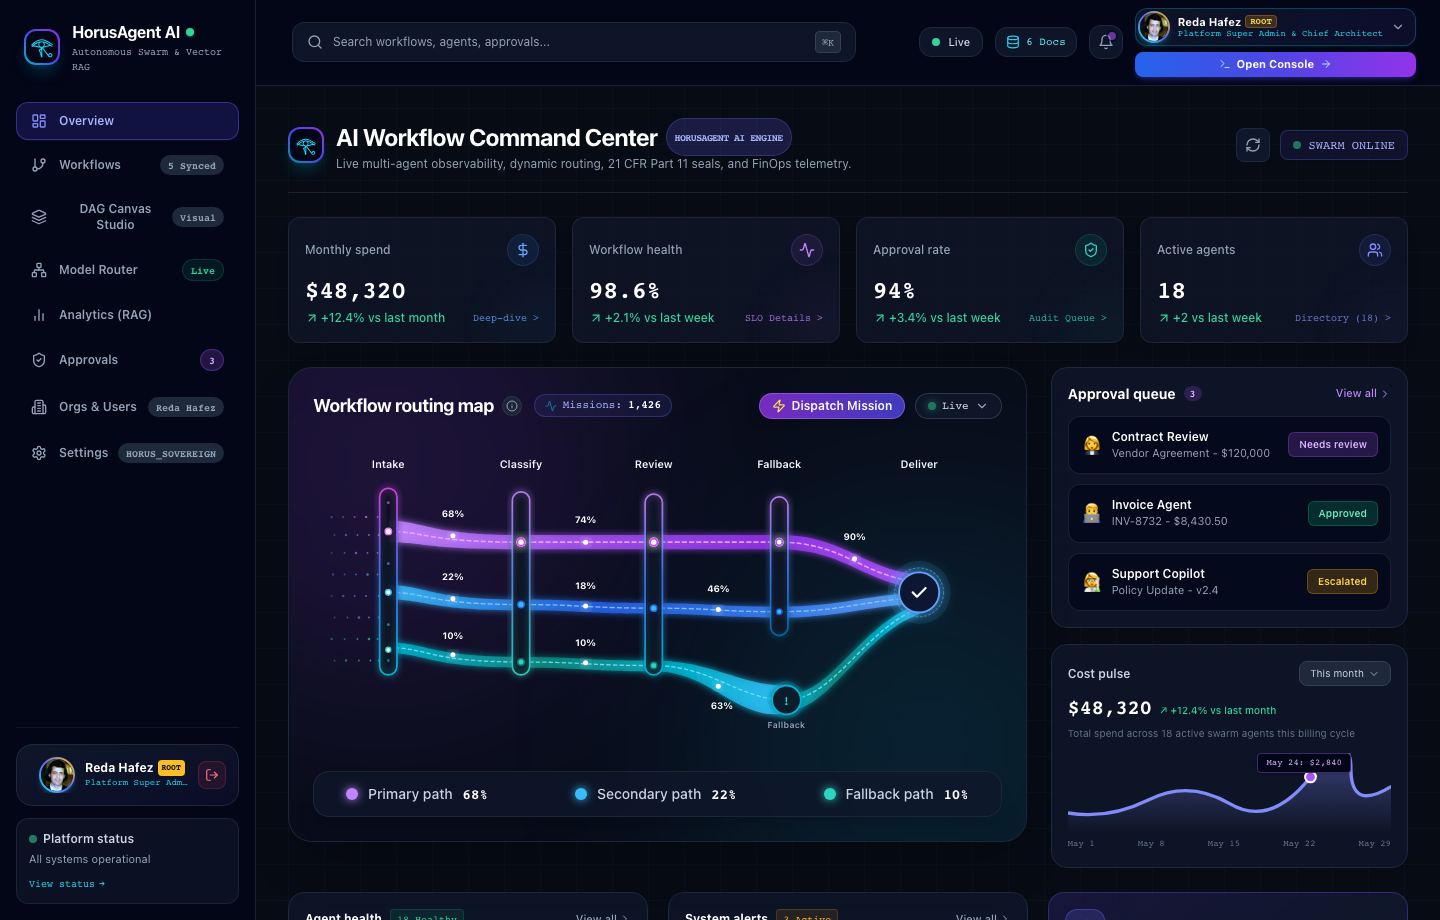
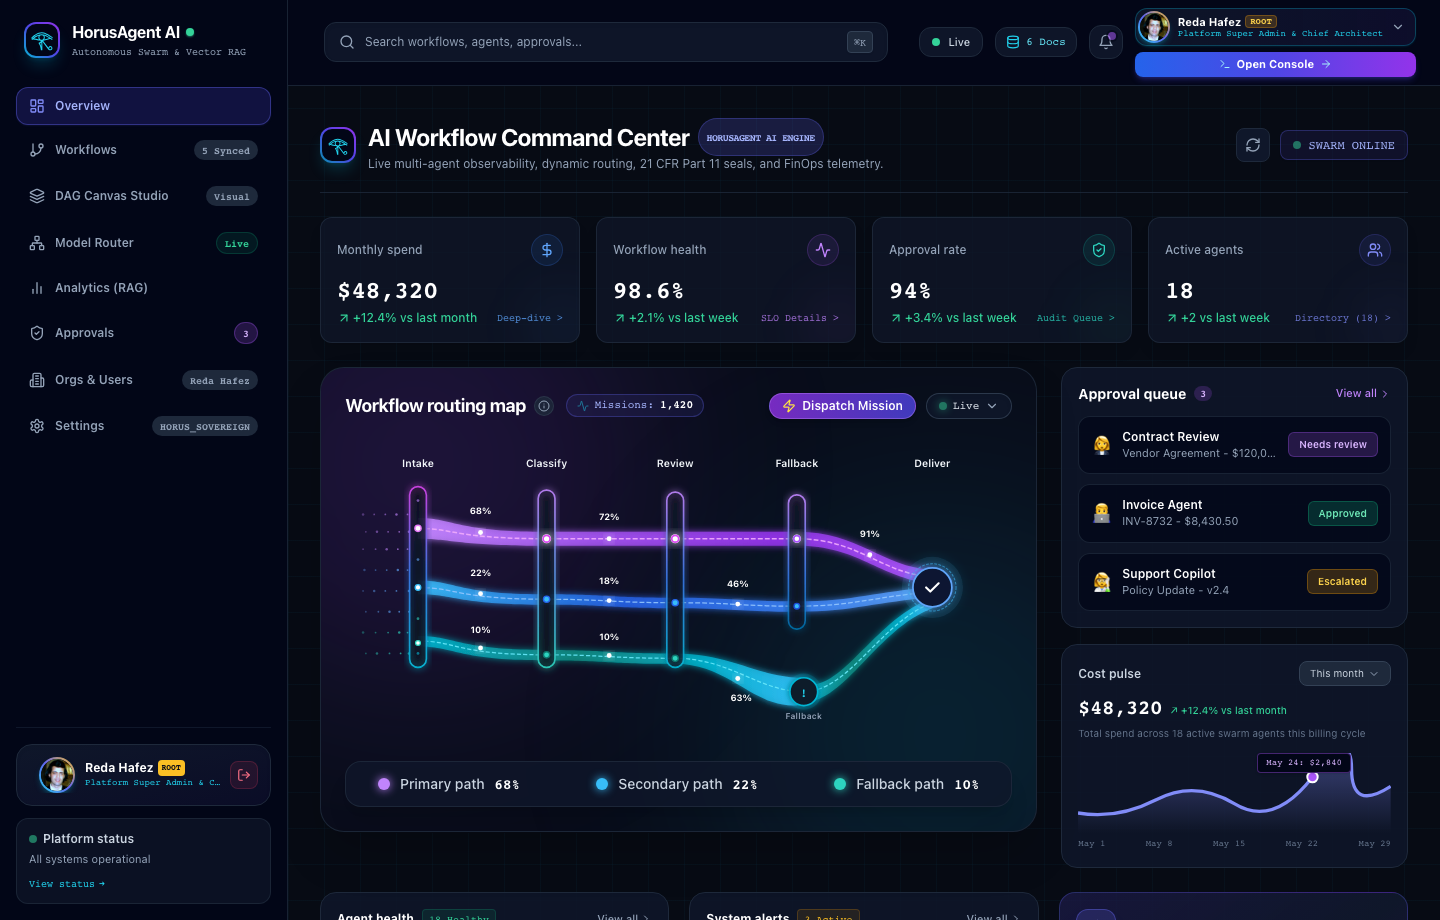
fix(sidebar): align DAG Canvas Studio label horizontally and refresh all 8 showcase screenshots

diff --git a/frontend/src/components/Sidebar.tsx b/frontend/src/components/Sidebar.tsx
@@ -183,20 +183,20 @@ export default function Sidebar({
               <button
                 key={item.id}
                 onClick={() => handleSelect(item.id)}
-                className={`w-full flex items-center justify-between px-3.5 py-2.5 rounded-xl text-xs font-semibold transition-all duration-200 ${
+                className={`w-full flex items-center justify-between px-3 py-2.5 rounded-xl text-xs font-semibold transition-all duration-200 text-left ${
                   isActive
                     ? 'bg-indigo-600/20 text-indigo-300 border border-indigo-500/40 shadow-sm shadow-indigo-500/10'
                     : 'text-slate-400 hover:text-slate-200 hover:bg-slate-900/60 border border-transparent'
                 }`}
               >
-                <div className="flex items-center space-x-3">
-                  <Icon className={`w-4 h-4 ${isActive ? 'text-indigo-400' : 'text-slate-400'}`} />
-                  <span>{item.label}</span>
+                <div className="flex items-center space-x-2.5 min-w-0">
+                  <Icon className={`w-4 h-4 flex-shrink-0 ${isActive ? 'text-indigo-400' : 'text-slate-400'}`} />
+                  <span className="whitespace-nowrap truncate text-left">{item.label}</span>
                 </div>
 
                 {item.badge && (
                   <span
-                    className={`text-[10px] font-mono px-2 py-0.5 rounded-full font-bold ${
+                    className={`text-[10px] font-mono px-2 py-0.5 rounded-full font-bold flex-shrink-0 ml-2 ${
                       item.id === 'ROUTER'
                         ? 'bg-emerald-500/10 text-emerald-400 border border-emerald-500/20'
                         : item.id === 'APPROVALS'
@@ -301,7 +301,7 @@ export default function Sidebar({
   return (
     <>
       {/* Desktop Persistent Sidebar */}
-      <aside className="w-64 flex-shrink-0 hidden lg:block sticky top-0 h-screen z-30">
+      <aside className="w-72 flex-shrink-0 hidden lg:block sticky top-0 h-screen z-30">
         {sidebarContent}
       </aside>
 
